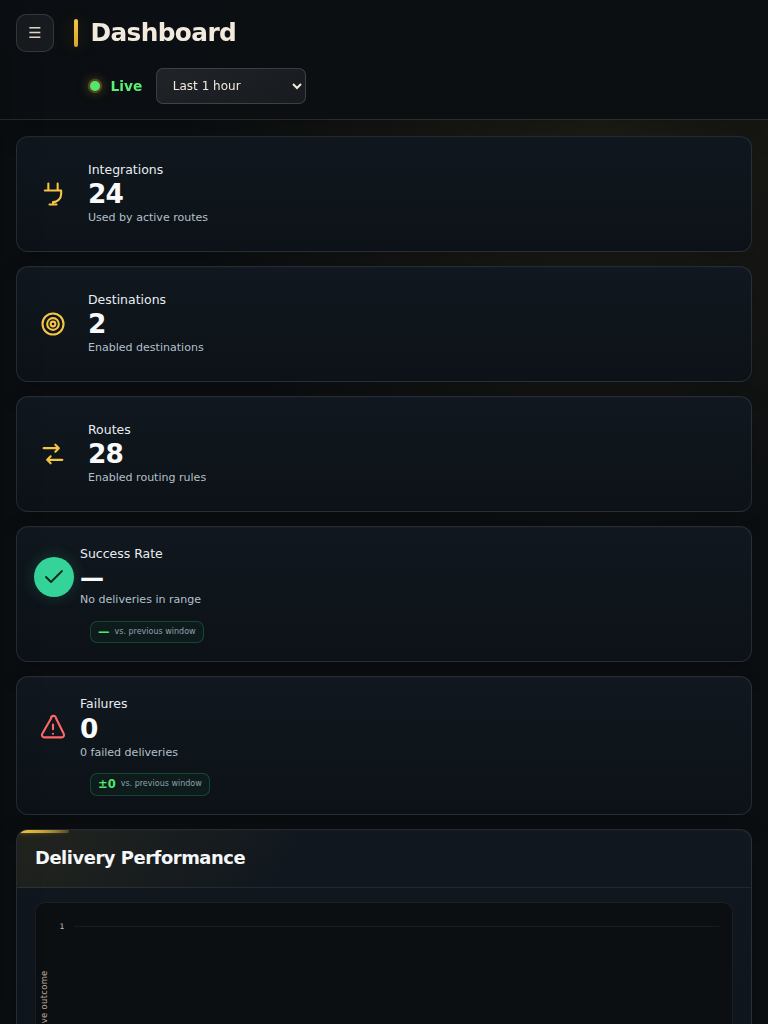
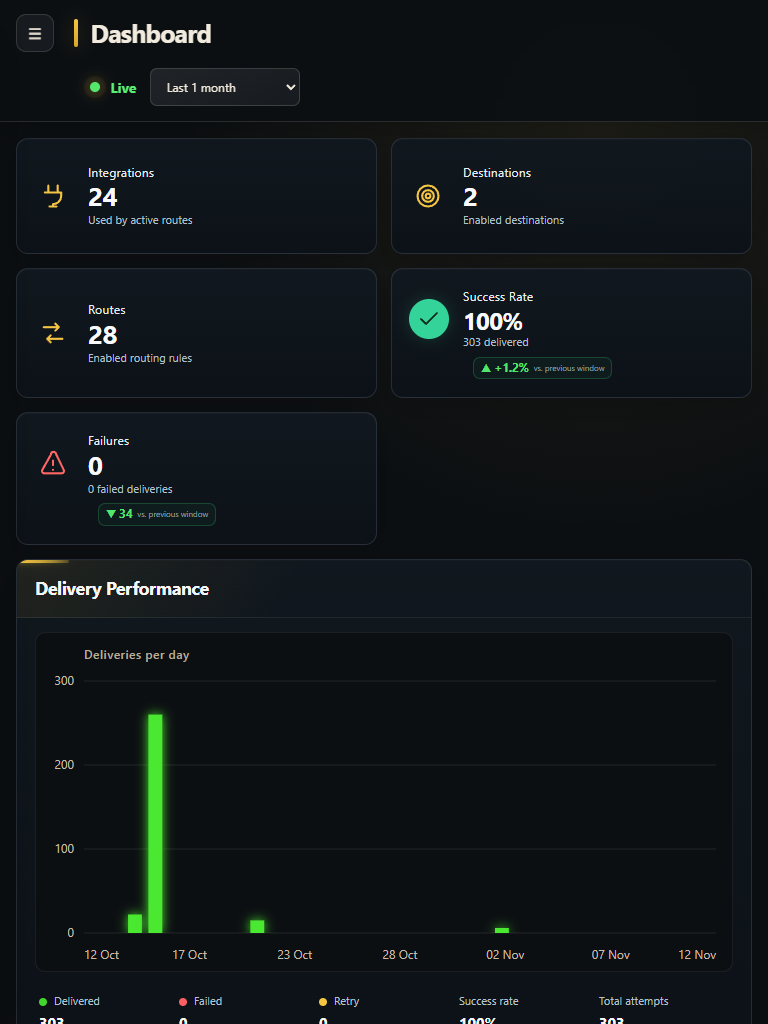
Docs: new captures and text for the November WebUI changes
Replaces eight captures that no longer matched the application (the four
Dashboard captures, Users, both Security captures and Filtering) with
captures of Development build 0011c903 taken with the crew accounts at the
same viewports; the Users capture hides the Development administrator's
account name in Recent activity with two black boxes. Updates the WebUI guide
(per-period delivery chart, restart in the profile menu, Users Recent
activity, click-to-pick token integrations), the two tutorials that pick
token integrations, the README Preview, the release notes, the capture index
and the screenshot privacy log.

diff --git a/docs/images/v27.0.0-rc.1/README.md b/docs/images/v27.0.0-rc.1/README.md
@@ -7,6 +7,8 @@ Settings and the two Security captures from the Development build `179cbc02`
 and the Filtering capture from the Development build `0c14583c`; see
 "Replaced on 31 October 2026" and "Filtering capture replaced on 31 October
 2026" below.
+Eight captures were replaced on 12 November 2026 from the Development build
+`0011c903`; see "Replaced on 12 November 2026" below.
 Nowlert CE is a desktop web
 application: since 25 October 2026 the Preview of the repository README and
 the Docker Hub README shows four of its desktop captures at full width,
@@ -45,29 +47,29 @@ pixels at scale 1: 1440×900 (desktop), 768×1024 (tablet) and 390×844 (phone).
 | `sign-in-empty-signed-out-1440.png` | Sign in, empty form | signed out | 1440 | about 14:40 |
 | `sign-in-empty-signed-out-768.png` | Sign in, empty form | signed out | 768 | about 14:40 |
 | `sign-in-empty-signed-out-390.png` | Sign in, empty form | signed out | 390 | about 14:40 |
-| `dashboard-live-admin-1440.png` | Dashboard, Live, last hour | administrator | 1440 | 15:48 |
+| `dashboard-live-admin-1440.png` | Dashboard, Live, last month | administrator | 1440 | replaced 12 Nov 2026, 19:00 |
 | `routing-flow-live-admin-1440.png` | Routing Flow, Live, last 24 hours | administrator | 1440 | 15:48 |
 | `destinations-list-admin-1440.png` | Destinations list | administrator | 1440 | 15:48 |
-| `filtering-list-admin-1440.png` | Filtering with Integration behavior | administrator | 1440 | replaced 31 Oct 2026, 07:48 |
+| `filtering-list-admin-1440.png` | Filtering with Integration behavior | administrator | 1440 | replaced 12 Nov 2026, 19:00 |
 | `email-alerts-rules-admin-1440.png` | Email Alerts, Rules tab | administrator | 1440 | 15:49 |
 | `audit-log-overview-admin-1440.png` | Audit log (user column, record identifiers and sidebar account name masked on 2 Nov 2026) | administrator | 1440 | 15:49 |
 | `settings-regional-admin-1440.png` | Settings (Regional, Updates, Housekeeping) | administrator | 1440 | replaced 31 Oct 2026, 05:21 |
-| `security-profile-admin-1440.png` | Security (Profile, MFA, password, API tokens) | administrator | 1440 | replaced 31 Oct 2026, 05:20 |
-| `users-search-admin-1440.png` | Users, filtered to the crew accounts | administrator | 1440 | 15:51 |
+| `security-profile-admin-1440.png` | Security (Profile, MFA, password, API tokens) | administrator | 1440 | replaced 12 Nov 2026, 19:00 |
+| `users-search-admin-1440.png` | Users, filtered to the crew accounts (Recent activity account names masked) | administrator | 1440 | replaced 12 Nov 2026, 19:00 |
 | `delivery-history-zabbix-admin-1440.png` | Delivery history, Zabbix source filter (host and database labels and sidebar account name masked on 2 Nov 2026; not embedded) | administrator | 1440 | 15:53 |
 | `email-alerts-groups-admin-1440.png` | Email Alerts, Groups tab | administrator | 1440 | 15:53 |
 | `destination-editor-teams-admin-1440.png` | Add destination, Microsoft Teams, Message style | administrator | 1440 | 15:54 |
 | `destination-preview-teams-modern-admin-1440.png` | Preview dialog, Teams destination saved as Modern Card, output scrolled to the card body | administrator | 1440 | 20:44 |
 | `destination-preview-teams-classic-admin-1440.png` | Preview dialog, Teams destination saved as Classic Card, output scrolled to the card body | administrator | 1440 | 20:41 |
 | `destinations-list-admin-768.png` | Destinations list | administrator | 768 | 17:57 |
-| `dashboard-live-admin-768.png` | Dashboard, Live | administrator | 768 | 17:57 |
+| `dashboard-live-admin-768.png` | Dashboard, Live, last month | administrator | 768 | replaced 12 Nov 2026, 19:00 |
 | `routing-flow-live-admin-768.png` | Routing Flow, Live | administrator | 768 | 18:04 |
 | `routing-flow-live-admin-390.png` | Routing Flow, Live | administrator | 390 | 18:05 |
-| `dashboard-live-admin-390.png` | Dashboard, Live | administrator | 390 | 18:05 |
+| `dashboard-live-admin-390.png` | Dashboard, Live, last month | administrator | 390 | replaced 12 Nov 2026, 19:00 |
 | `destinations-list-admin-390.png` | Destinations list | administrator | 390 | 18:05 |
-| `dashboard-live-user-1440.png` | Dashboard, Live | regular user | 1440 | 18:06 |
+| `dashboard-live-user-1440.png` | Dashboard, Live, last month | regular user | 1440 | replaced 12 Nov 2026, 19:00 |
 | `destinations-list-user-1440.png` | Destinations list (shared destinations of other owners, all view only) | regular user | 1440 | 18:06 |
-| `security-profile-user-1440.png` | Security (Profile, MFA, password, API tokens) | regular user | 1440 | replaced 31 Oct 2026, 05:22 |
+| `security-profile-user-1440.png` | Security (Profile, MFA, password, API tokens) | regular user | 1440 | replaced 12 Nov 2026, 19:00 |
 
 The two preview captures were replaced on 21 October 2026 at the times shown.
 The Zabbix-filtered Delivery history capture of 21 October 2026 (15:53) and
@@ -264,6 +266,52 @@ pixel. None of them was replaced:
   **Debug**; only the wording of the generated text differs (`Nowlert`
   instead of `nowlert`, and the category label), which is payload content,
   not the interface. The capture is kept.
+
+## Replaced on 12 November 2026 (capture base commit 0011c903)
+
+The application changes of 11 and 12 November 2026 (pull requests 651 to 658)
+changed what eight captures show: the Dashboard delivery chart now shows
+deliveries per period instead of a running total, the Security page no longer
+has its own **Restart Nowlert** button and its token section reads **Event API
+tokens**, the Users page **Recent activity** lists account events, and the
+Filtering table keeps its **Actions** column pinned without wrapping the
+destination names. The eight files were replaced by captures of the
+Development deployment of the `development` branch at commit
+`0011c903f24cf92ad16c5a0087d97e3e5301fb42` (image `sha256:31a7765173ffdd6fb4eceda9a6f91f3e0fff66b6043dedddfb0d4ae67f9ef0ed`, CI run 43283509150), taken at about 19:00 (Lisbon) on
+12 November 2026 in headless Chrome at scale 1 with the same viewports
+(1440 × 900, 768 × 1024, 390 × 844) and the same crew accounts
+(`ai-crew-admin-…`; `ai-crew-user-…` for the two regular-user captures).
+The Dashboard captures use the **Last 1 month** range, because the last hour
+had no deliveries on Development and would show only the empty-period note.
+
+| File | Page / state | Role | Width |
+|---|---|---|---|
+| `dashboard-live-admin-1440.png` | Dashboard, **Last 1 month**: **Deliveries per day** columns, Recent Activity with the synthetic test events | administrator | 1440 |
+| `dashboard-live-admin-768.png` | Dashboard, **Last 1 month**, two-column metric cards above the chart | administrator | 768 |
+| `dashboard-live-admin-390.png` | Dashboard, **Last 1 month**, top of the page (metric cards) | administrator | 390 |
+| `dashboard-live-user-1440.png` | Dashboard, **Last 1 month**, shorter sidebar and **User** chip | regular user | 1440 |
+| `users-search-admin-1440.png` | Users filtered to `ai-crew`; **Recent activity** shows two `session · login` events whose account name is hidden by solid black boxes | administrator | 1440 |
+| `security-profile-admin-1440.png` | Security: no header button, **Event API tokens** heading, **+ New token** | administrator | 1440 |
+| `security-profile-user-1440.png` | Security for the regular user, **Event API tokens** heading | regular user | 1440 |
+| `filtering-list-admin-1440.png` | Filtering: four shared crew test destinations on one line each, pinned **Actions** column, Integration behavior cards | administrator | 1440 |
+
+Notes on these eight files:
+
+- **Recent activity** on the Users page lists the newest account events of the
+  whole deployment, which were two sign-ins of the Development deployment's
+  administrator account (the account withdrawn from the Audit log capture on
+  23 October 2026). Its name is covered by two solid black boxes; nothing else
+  in the picture was changed. The crew accounts were signed in for the
+  captures through sessions created on the server, so they wrote no sign-in
+  event of their own.
+- Every file was opened at full size before being added. They show only the
+  crew accounts, the crew's shared test destinations and filters, and the
+  synthetic test events (`Synthetic chassis sensor reported a critical
+  condition`, `synthetic-http.example.invalid`); no token, password, mailbox,
+  sender or private address. No metadata chunks are written.
+- The other captures of this folder were compared with the same build on
+  12 November 2026 (Destinations, Routing Flow and Email Alerts rules at 768
+  and 390 px) and still show the same layout, so they were kept.
 
 ## Names shown in the captures
 

diff --git a/docs/guides/screenshot-privacy.md b/docs/guides/screenshot-privacy.md
@@ -229,6 +229,15 @@ retained rows, 91 linked). An earlier version of this paragraph gave 105 and
 rows (133 retained rows, 104 linked). Counts in this page are dated
 observations and the guard test, not this prose, is the authority.
 
+- 12 November 2026: eight captures of `images/v27.0.0-rc.1/` were replaced by
+  captures of the Development build `0011c903` after the delivery chart,
+  Security page, Users and layout changes of pull requests 651 to 658 (the
+  four Dashboard captures, Users, both Security captures and Filtering).
+  Each was opened at full size before being added. The Users capture shows,
+  in **Recent activity**, the account name of the Development deployment's
+  administrator; two solid black boxes hide it. See the capture index for
+  the build, viewports and accounts.
+
 ## Withdrawn captures
 
 Paths below are relative to `docs/`. They are an exclusion record, not links.
@@ -490,10 +499,10 @@ raster under `docs/images/` needs a row.
 | `images/unifi-setup/protect-delivery.png` | retained | reviewed 15 Oct 2026 |
 | `images/unifi-setup/protect-noise-filter.png` | retained | reviewed 15 Oct 2026 |
 | `images/v27.0.0-rc.1/audit-log-overview-admin-1440.png` | retained | Development capture, 21 Oct 2026; restored from Git history and masked 2 Nov 2026 (the user column of the event list, the record identifier under each resource and, after the independent review the same day, the account name in the sidebar corner); still shows the health checks, counters, action and resource names and the selected event; embedded by the WebUI guide |
-| `images/v27.0.0-rc.1/dashboard-live-admin-1440.png` | retained | Development capture, 21 Oct 2026; opened at full size 25 Oct 2026; README and Docker Hub Preview |
-| `images/v27.0.0-rc.1/dashboard-live-admin-390.png` | retained | Development capture, 21 Oct 2026; opened 24 Oct 2026, no account, owner, destination or channel name; responsive-layout example in the WebUI guide |
-| `images/v27.0.0-rc.1/dashboard-live-admin-768.png` | retained | Development capture, 21 Oct 2026 |
-| `images/v27.0.0-rc.1/dashboard-live-user-1440.png` | retained | Development capture, 21 Oct 2026 |
+| `images/v27.0.0-rc.1/dashboard-live-admin-1440.png` | retained | Development capture, 12 Nov 2026 (replaces the capture of 21 Oct 2026); opened at full size 12 Nov 2026; crew administrator, synthetic test events; README and Docker Hub Preview |
+| `images/v27.0.0-rc.1/dashboard-live-admin-390.png` | retained | Development capture, 12 Nov 2026 (replaces the capture of 21 Oct 2026); opened at full size 12 Nov 2026, no account, owner, destination or channel name; responsive-layout example in the WebUI guide |
+| `images/v27.0.0-rc.1/dashboard-live-admin-768.png` | retained | Development capture, 12 Nov 2026 (replaces the capture of 21 Oct 2026); opened at full size 12 Nov 2026 |
+| `images/v27.0.0-rc.1/dashboard-live-user-1440.png` | retained | Development capture, 12 Nov 2026 (replaces the capture of 21 Oct 2026); opened at full size 12 Nov 2026; crew user account |
 | `images/v27.0.0-rc.1/delivery-history-synology-admin-1440.png` | retained | Development capture, 23 Oct 2026; test fixture device `synthetic-dsm-01` only |
 | `images/v27.0.0-rc.1/delivery-history-zabbix-admin-1440.png` | retained | Development capture, 21 Oct 2026; restored from Git history and masked 2 Nov 2026 (the row title, the detail header, the whole message body and, after the independent review the same day, the account name in the sidebar corner); still shows the Zabbix filter, badges, transport information and timeline; not embedded, the Synology capture is the reference |
 | `images/v27.0.0-rc.1/destination-editor-teams-admin-1440.png` | retained | Development capture, 21 Oct 2026 |
@@ -510,17 +519,17 @@ raster under `docs/images/` needs a row.
 | `images/v27.0.0-rc.1/email-alerts-rules-admin-768.png` | retained | Development capture, 22 Oct 2026 |
 | `images/v27.0.0-rc.1/email-alerts-rules-admin-390.png` | retained | Development capture, 22 Oct 2026 |
 | `images/v27.0.0-rc.1/email-alerts-mailbox-edit-imap-admin-1440.png` | retained | Development capture, 22 Oct 2026; fixture address and loopback host only |
-| `images/v27.0.0-rc.1/filtering-list-admin-1440.png` | retained | Development capture, 31 Oct 2026 (replaces the capture of 21 Oct 2026); shared crew test destinations, their filter names and badges, Integration behavior cards with zero aliases |
+| `images/v27.0.0-rc.1/filtering-list-admin-1440.png` | retained | Development capture, 12 Nov 2026 (replaces the capture of 31 Oct 2026); shared crew test destinations, their filter names and badges, Integration behavior cards with zero aliases |
 | `images/v27.0.0-rc.1/routing-flow-live-admin-1440.png` | retained | Development capture, 21 Oct 2026; opened at full size 25 Oct 2026; README and Docker Hub Preview |
 | `images/v27.0.0-rc.1/routing-flow-live-admin-390.png` | retained | Development capture, 21 Oct 2026; opened 24 Oct 2026, no account, owner, destination or channel name; responsive-layout example in the WebUI guide |
 | `images/v27.0.0-rc.1/routing-flow-live-admin-768.png` | retained | Development capture, 21 Oct 2026 |
-| `images/v27.0.0-rc.1/security-profile-admin-1440.png` | retained | Development capture, 31 Oct 2026 (replaces the capture of 21 Oct 2026); crew administrator account, empty token list, no token value |
-| `images/v27.0.0-rc.1/security-profile-user-1440.png` | retained | Development capture, 31 Oct 2026 (replaces the capture of 21 Oct 2026); crew user account, empty token list, no token value |
+| `images/v27.0.0-rc.1/security-profile-admin-1440.png` | retained | Development capture, 12 Nov 2026 (replaces the capture of 31 Oct 2026); crew administrator account, empty token list, no token value |
+| `images/v27.0.0-rc.1/security-profile-user-1440.png` | retained | Development capture, 12 Nov 2026 (replaces the capture of 31 Oct 2026); crew user account, empty token list, no token value |
 | `images/v27.0.0-rc.1/settings-regional-admin-1440.png` | retained | Development capture, 31 Oct 2026 (replaces the capture of 21 Oct 2026); Development settings values only |
 | `images/v27.0.0-rc.1/sign-in-empty-signed-out-1440.png` | retained | Development capture, 21 Oct 2026; opened at full size 25 Oct 2026; README and Docker Hub Preview |
 | `images/v27.0.0-rc.1/sign-in-empty-signed-out-390.png` | retained | Development capture, 21 Oct 2026; opened 24 Oct 2026, no account, owner, destination or channel name; not embedded since 25 Oct 2026 |
 | `images/v27.0.0-rc.1/sign-in-empty-signed-out-768.png` | retained | Development capture, 21 Oct 2026 |
-| `images/v27.0.0-rc.1/users-search-admin-1440.png` | retained | Development capture, 21 Oct 2026 |
+| `images/v27.0.0-rc.1/users-search-admin-1440.png` | retained | Development capture, 12 Nov 2026 (replaces the capture of 21 Oct 2026); opened at full size 12 Nov 2026; crew accounts only; two black boxes hide the Development administrator's account name in Recent activity |
 | `images/zabbix-setup/action-operations.png` | retained | reviewed 15 Oct 2026 |
 | `images/zabbix-setup/media-enabled.png` | retained | reviewed 15 Oct 2026 |
 | `images/zabbix-setup/native-recovery-accepted.png` | retained | reviewed 15 Oct 2026 |

diff --git a/docs/webui.md b/docs/webui.md
@@ -78,9 +78,9 @@ The sidebar offers **Dashboard**, **Routing Flow**, **Destinations**,
 **Mailboxes** and **Activity**), **Delivery history** and **Settings** to every
 signed-in user. **Audit log**, **Backups** and **Users** are shown to
 administrators only. The profile chip at the bottom of the sidebar opens the
-profile menu with **Security** and **Sign out**. Administrators also see a
-**Restart** control in the header that opens the **Restart Nowlert**
-confirmation.
+profile menu with **Security** and **Sign out**; for administrators it also
+offers **Restart Nowlert**, which opens a confirmation. There is no separate
+restart button in the page header.
 
 There is no separate Sources, Routes, Inputs, API access, Updates or Data tools
 page: those functions live inside the pages described below.
@@ -96,8 +96,9 @@ administration:
   **Destinations** (enabled destinations), **Routes** (enabled routing rules),
   **Success Rate** and **Failures** for the selected range, the last two with
   a change against the previous window;
-- **Delivery Performance**: the delivery chart for the selected range with the
-  Delivered, Failed and Retry counts, the success rate and the total attempts;
+- **Delivery Performance**: deliveries per period for the selected range,
+  with the Delivered, Failed and Retry counts, the success rate and the total
+  attempts;
 - **Recent Activity**: the latest delivery events, with **View all** leading
   to Delivery history;
 - **Top Integrations** and **Top Destinations**;
@@ -109,11 +110,17 @@ administration:
 The Integration → Route → Destination topology is no longer drawn on the
 Dashboard; it lives on the Routing Flow page.
 
-The delivery chart plots cumulative delivery outcomes with a thin pulsing yellow
-line and animated pulses at recorded events. The animation restarts when the
-Dashboard is entered or refreshed; reduced-motion preferences disable it. The
-chart shares its selected time range with the Dashboard controls and has no
-manual replay button.
+The delivery chart shows how many deliveries happened in each period of the
+range chosen in the Dashboard header, as stacked columns: Delivered (green) at
+the bottom, then Retry (yellow) and Failed (red). The period follows the range:
+per minute for the last 10 minutes, per 5 minutes for the last hour, per hour
+for the last 24 hours, per day for the last month and per month for the last
+year; the axis title says which (for example **Deliveries per hour**).
+Hovering a column shows its period and its delivered, failed and retry counts;
+a range without deliveries says **No deliveries in this period**. The columns
+pulse with a soft glow and are revealed when the Dashboard is entered or the
+data changes; reduced-motion preferences turn both off. The chart is drawn at
+the width of its card, so its labels stay readable at every window size.
 
 ![Dashboard (development, administrator, 1440 px)](images/v27.0.0-rc.1/dashboard-live-admin-1440.png)
 
@@ -288,6 +295,10 @@ Event API tokens authorize external applications to submit
 `POST /api/v2/events`. They are not required for SMTP, dedicated vendor webhook
 endpoints, Redfish subscriptions, WebUI login, or destination delivery.
 
+In **Allowed integrations**, each click adds or removes one integration, so
+several can be chosen without holding Ctrl; dragging across the list adds a
+range. Administrators can also choose **All sources (administrator only)**.
+
 Token values are displayed only at creation or successful rotation. The list
 shows safe metadata such as source scopes, rate limit, last use, and state.
 Rotate or revoke a token instead of trying to retrieve its previous value.
@@ -356,6 +367,11 @@ them.
 Deletion is protected by server-side account/ownership safety checks and is
 audited. The last enabled administrator cannot be removed through a path that
 would leave the platform without administrative access.
+
+**Recent activity** at the top of the page lists the latest account events
+(sign-ins, sign-outs and user changes) with the account name and time;
+**View all** opens the 50 most recent ones. It reads account events directly,
+so mailbox synchronisation and health checks never push them out.
 
 The sidebar profile chip uses the same authoritative account role as access
 control, so administrator accounts display **Admin** and regular accounts

diff --git a/docs/releases/post-v3.1.6-development.md b/docs/releases/post-v3.1.6-development.md
@@ -81,6 +81,17 @@ release material.
   and visibility save without a folder scan and a blank username keeps the
   stored one; the Email Alerts rules table becomes stacked cards at 900 px and
   narrower.
+- Changes of 11 and 12 November 2026 (pull requests 651 to 658): the
+  Dashboard delivery chart shows deliveries per period of the chosen range
+  (per minute to per month) as stacked Delivered/Retry/Failed columns with
+  readable axes, instead of a running total; signing in no longer stalls on
+  **Connecting…** or shows **Some workspace data could not be loaded**;
+  layout fixes for 13-inch laptops and narrow windows (scrolling sidebar,
+  pinned table actions, visible dialog buttons, no overlapping text) and
+  clearer wording; the duplicate **Restart Nowlert** button on the Security
+  page is removed (the profile menu keeps it); the Users page **Recent
+  activity** lists sign-ins and account changes; the Event API token
+  **Allowed integrations** list takes a plain click per integration.
 
 ### Operations
 
@@ -88,6 +99,14 @@ release material.
 - Backup listing of NAS targets without scanning archive contents; the Mobile
   coordination lock is excluded from backups.
 - Concurrent SMTP routing and bounded concurrent destination delivery.
+- Faster pages: read requests share one database connection and the
+  Destinations list builds its route list once; Filtering, Routing Flow and
+  Destinations open two to three times faster, backups and the Audit log in
+  well under a second. Repeated empty mailbox checks no longer fill the
+  Audit log.
+- Runtime libraries updated after the Datadog Code Security scan of
+  `development`: Pillow 13.0.0, certifi 2026.10.23, ddtrace 4.17.0 and
+  opentelemetry-api 1.45.2.
 
 ## Documentation state
 
@@ -100,9 +119,10 @@ release material.
   repository README and the Docker Hub README Preview show the 1440 px
   Dashboard, Routing Flow, Destinations and sign-in captures, and the 768 and
   390 px captures are secondary examples of the responsive layout in a narrow
-  browser window, not the separate Nowlert Mobile app. They are the reviewed
-  screenshot set reused unchanged since the `v27.0.0-rc.7` documentation
-  package. The v3.1.0 set is historical; the v2.5.2 and v1.9.6 captures show
+  browser window, not the separate Nowlert Mobile app. Eight of them (the
+  four Dashboard captures, Users, both Security captures and Filtering) were
+  replaced on 12 November 2026 after the changes above; the others are the
+  reviewed set reused since the `v27.0.0-rc.7` documentation package. The v3.1.0 set is historical; the v2.5.2 and v1.9.6 captures show
   the retired product name and remain outdated.
 - A release candidate still needs: a version bump with a numbered release note
   and QA checklist, independent visual review of those captures, and the normal

diff --git a/README.md b/README.md
@@ -156,22 +156,21 @@ See [v3.1.6 release notes](docs/releases/v3.1.6.md) and the
 
 Nowlert CE is a desktop web application. The captures below show its current
 WebUI at desktop width (1440 × 900 px) as it looks on the v27.0.0
-release-candidate line. They were taken on 21 October 2026 from the
-Development deployment of the `development` branch with the crew's
-Development test accounts and test data, and they belong to the reviewed
-screenshot set reused unchanged since the `v27.0.0-rc.7` documentation
-package. Since `v27.0.0-rc.7` the only application change in the later
-`development` commits, up to the source of the current release candidate, is
-the Destinations empty-state fix in `src/webui/app.js` and
-`src/webui/professional.css` (THE-1654, PR 641); every other change is to
-documentation, tests, a workflow file and the documentation checks.
+release-candidate line. They come from the Development deployment of the
+`development` branch with the crew's Development test accounts and test data.
+The Dashboard capture was retaken on 12 November 2026, after the delivery
+chart changed from a running total to deliveries per period (pull requests
+654 and 655); the Routing Flow, Destinations and sign-in captures date from
+21 October 2026 and still match the application. The
+[capture index](docs/images/v27.0.0-rc.1/README.md) records the date and
+build of every capture.
 
 ## Dashboard
 
-Delivery counters, delivery performance, recent activity and system health in
-one view.
+Delivery counters, deliveries per period for the chosen range, recent activity
+and system health in one view.
 
-![Nowlert CE Dashboard at 1440 px with integration, destination and route counts, delivery performance chart and recent activity](docs/images/v27.0.0-rc.1/dashboard-live-admin-1440.png)
+![Nowlert CE Dashboard at 1440 px with integration, destination and route counts, deliveries per day for the last month and recent activity](docs/images/v27.0.0-rc.1/dashboard-live-admin-1440.png)
 
 ## Routing Flow
 

diff --git a/docs/guides/hardware-redfish-setup.md b/docs/guides/hardware-redfish-setup.md
@@ -76,9 +76,9 @@ for the controller configuration examples.
    application that posts normalized events to `/api/v2/events` and that the
    value is shown once.
 3. In **Name**, enter `Hardware Redfish controllers`.
-4. In **Allowed integrations**, a multi-select list of the configured
-   integrations, select **Supermicro**, **HPE iLO**, and **Dell iDRAC** and
-   nothing else. Administrators also see **All sources (administrator only)**;
+4. In **Allowed integrations**, the list of the configured integrations where
+   each click adds or removes one (no Ctrl needed), click **Supermicro**,
+   **HPE iLO**, and **Dell iDRAC** and nothing else. Administrators also see **All sources (administrator only)**;
    do not use it for a controller token. Leave **Custom source identifiers**
    empty. A separate token per controller is also possible and allows
    independent rotation.

diff --git a/docs/guides/portainer-to-discord.md b/docs/guides/portainer-to-discord.md
@@ -33,7 +33,8 @@ Open **Profile menu → Security → API tokens → New token**. The **Issue Eve
 API token** dialog opens:
 
 1. In **Name**, enter `Portainer centralized alerts`.
-2. In **Allowed integrations**, select only **Portainer**. Do not choose
+2. In **Allowed integrations**, click only **Portainer** (each click adds or
+   removes one integration). Do not choose
    **All sources (administrator only)**, and leave **Custom source
    identifiers** empty.
 3. In **Requests per minute**, keep the default 60 or set the limit you need.
